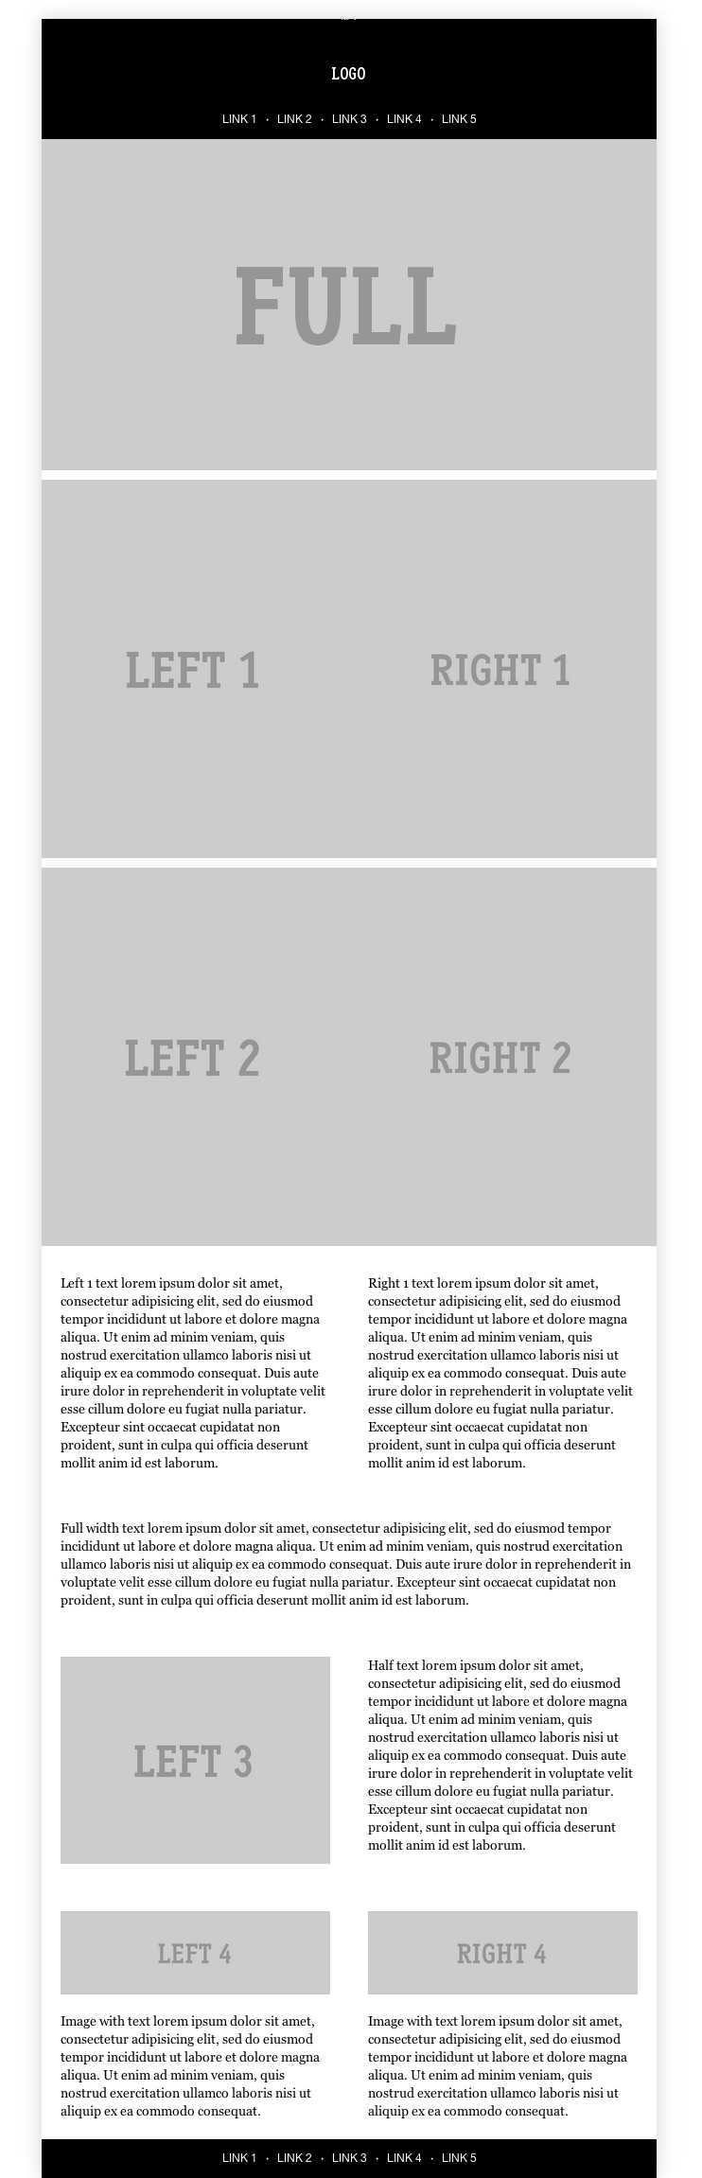
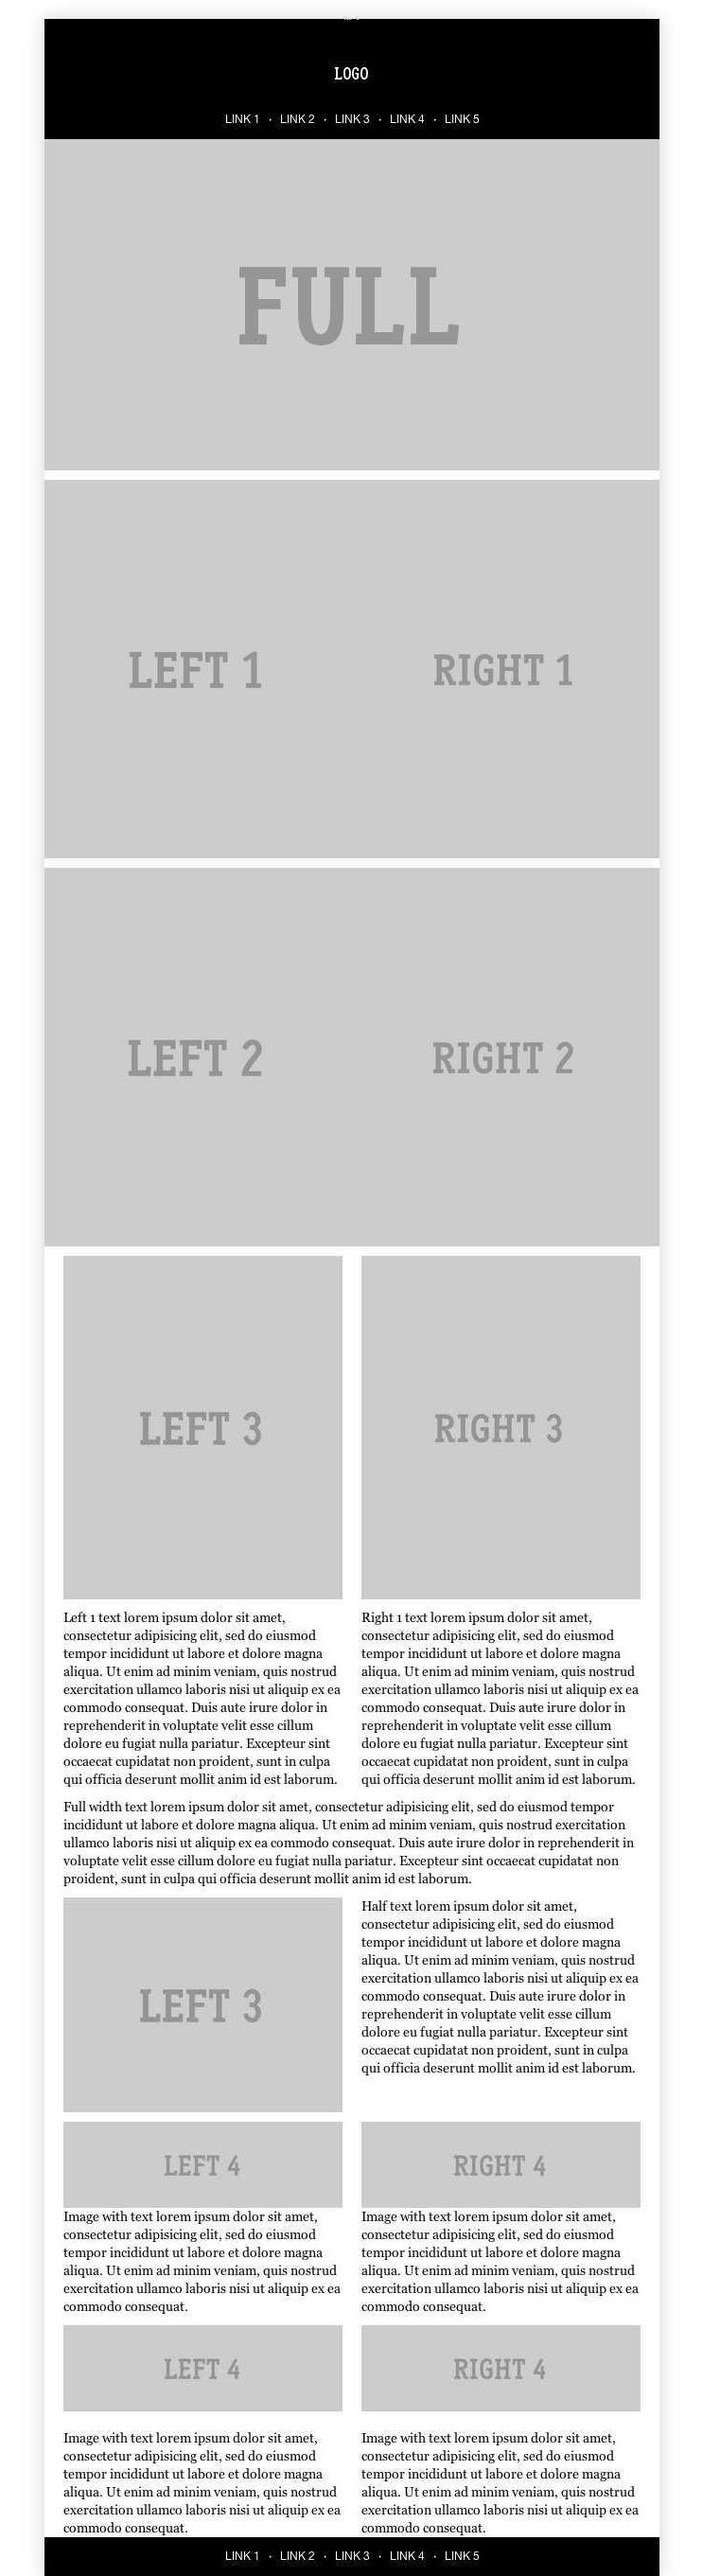
New screenshots

diff --git a/boilerplate.html b/boilerplate.html
@@ -310,11 +310,11 @@
 								<td valign="top" style="padding:0" bgcolor="#ffffff">
 									<table align="right" width="100%" dir="ltr" cellpadding="0" cellspacing="0" border="0" style="border-collapse: collapse; mso-table-lspace:0pt; mso-table-rspace:0pt; ">
 										<tr valign="top">
-											<td width="295" dir="ltr" bgcolor="#FFFFFF" class="full padded left" style="mso-table-lspace:0;mso-table-rspace:0; padding:0; margin:0;">
-												<a href="#"><img src="http://placehold.it/650x800&text=LEFT+1" alt="" border="0" width="295" style="display: block; width:100%; max-width:325px; height:auto;"></a>						
+											<td width="295" dir="ltr" bgcolor="#FFFFFF" class="full padded left" style="mso-table-lspace:0;mso-table-rspace:0; margin:0;">
+												<a href="#"><img src="http://placehold.it/650x800&text=LEFT+3" alt="" border="0" width="295" style="display: block; width:100%; max-width:325px; height:auto;"></a>						
 											</td>
 											<td width="295" dir="ltr" bgcolor="#FFFFFF" class="full padded right">
-												<a href="#"><img src="http://placehold.it/650x800&text=RIGHT+1" alt="" border="0" width="295" style="display: block; width:100%; max-width:325px; height:auto;"></a>						
+												<a href="#"><img src="http://placehold.it/650x800&text=RIGHT+3" alt="" border="0" width="295" style="display: block; width:100%; max-width:325px; height:auto;"></a>						
 											</td>
 										</tr>
 									</table>
